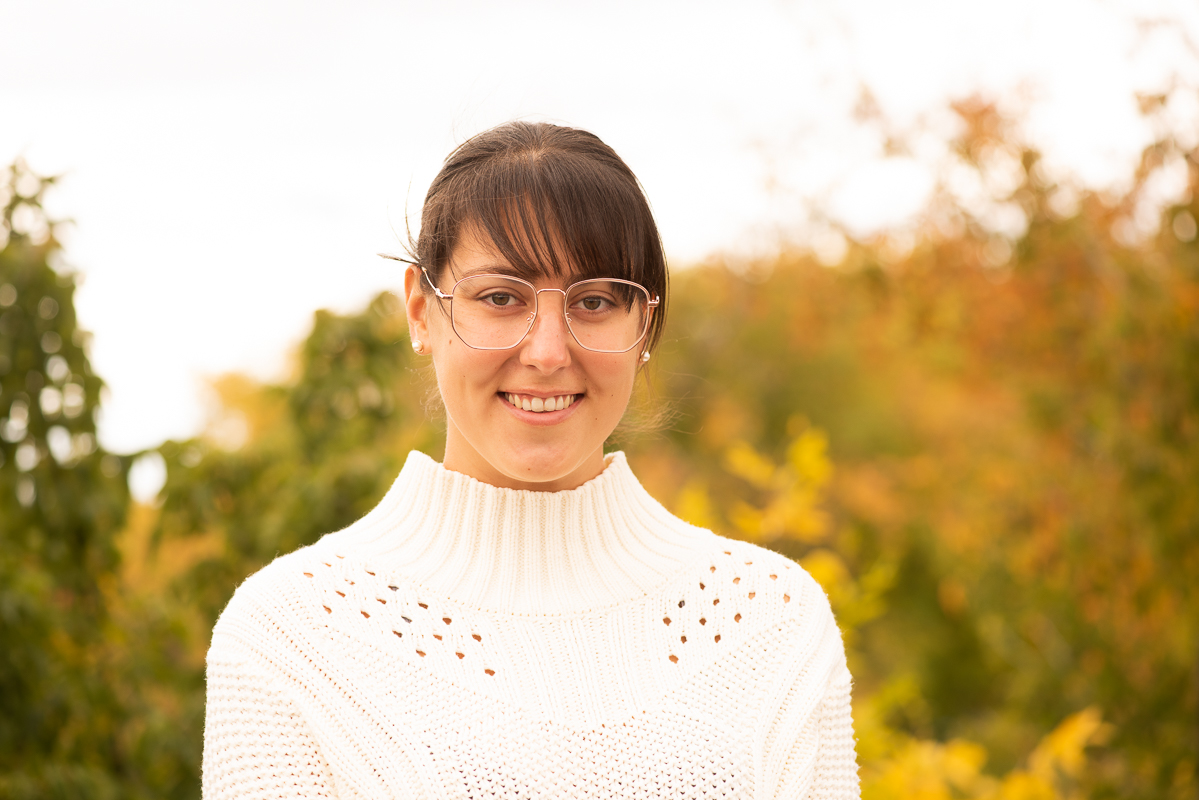
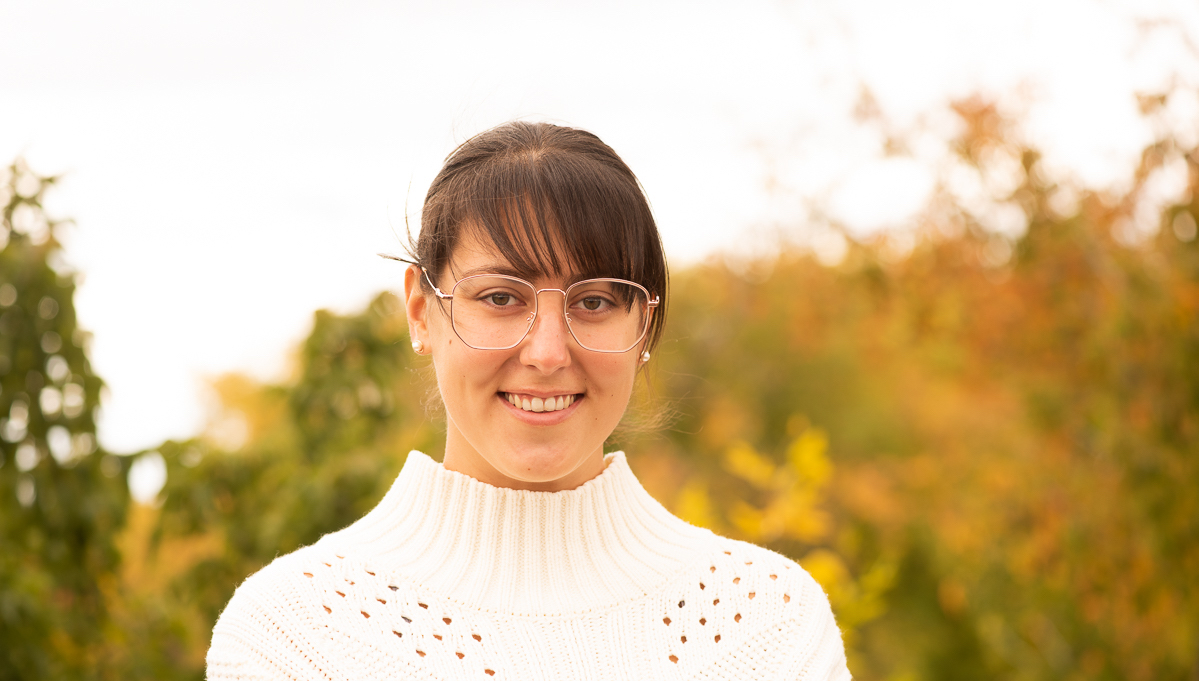
started CSS skeleton, updated html anchors connecting headers to sections, cropped hero image

diff --git a/assets/css/style.css b/assets/css/style.css
@@ -1,3 +1,9 @@
+:root {
+  --primary-color: #F1D9BF;
+  --secondary-color: #FCF8F3;
+  --tertiary-color: #2E211B;
+}
+
 * {
     box-sizing: border-box;
     margin: 0;
@@ -6,13 +12,14 @@
 
 /* START - BODY STYLINNG */
 body {
-
+    background-color: var(--secondary-color);
+    font-family:'Trebuchet MS', 'Lucida Sans Unicode', 'Lucida Grande', 'Lucida Sans', Arial, sans-serif
 }
 
 /* START - HEADER STYLING */
 header {
     padding: 15px 35px;
-    background-color: var(--tertiary-color);
+    background-color: var(--primary-color);
     display: flex;
     justify-content: space-between;
     flex-wrap: wrap;
@@ -22,25 +29,67 @@ header {
     background-image: url("../images/Lia_hero.jpg");
     background-size: cover;
     background-attachment: fixed;
-    background-position: 80%;
+    background-position: 100%;
     z-index: 9999;
+}
+
+header h1 {
+    font-weight: bold;
+    margin: 0;
+    font-size: 40px;
+    color: var(--tertiary-color);
+    text-shadow: 0 0 5px rgba(0, 0, 0, 0.5);
+}
+
+header h1 a {
+    color: var(--tertiary-color);
+}
+
+header nav {
+    margin: 7px 0;
+    color: var(--tertiary-color);
+    text-decoration: none;
+}
+  
+header nav ul {
+    display: flex;
+    flex-wrap: wrap;
+    justify-content: space-between;
+    align-items: center;
+    list-style: none;
+}
+  
+header nav ul li a {
+    padding: 10px 15px;
+    font-weight: lighter;
+    font-size: 1.55vw;
+}
+  
+header nav ul li a:hover {
+    background: var(--primary-color);
+    color: var(--tertiary-color);
+    border-radius: 10px 10px 0 0;
+    text-shadow: none;
 }
 
 /* START HERO IMAGE STYLING */
 .hero {
-    background-image: url("../images/digital-marketing-meeting.jpg");
+    background-image: url("../images/Lia_hero.jpg");
     background-size: cover;
     display: flex;
+    height: 600px;
+    width: 100%;
     justify-content: center;
     align-items: flex-start;
     background-attachment: fixed;
     background-position: 100%;
 }
 
-.hero h2 {
+.hero-subtitle {
     flex-wrap: wrap;
+    align-self: flex-end;
     justify-content: flex-end;
-    background-color: #fefae0;
+    background-color: var(--primary-color);
     padding: 10px;
     border-radius: 5px 5px 0 0;
 }

diff --git a/index.html b/index.html
@@ -12,7 +12,9 @@
 <body>
     <!-- START - HEADER & NAVIGATION -->
     <header>
-        <h1 title="A professional portfolio"> Lia Mattacchione</h1>
+        <h1 title="A professional portfolio">
+            <a>Lia Mattacchione</a>
+        </h1>
 
         <nav>
             <ul>
@@ -38,12 +40,14 @@
 
     <!-- START - HERO IMAGE -->
     <section class="hero">
-        <h2>Merging my passion of healthcare with coding.</h2>
+        <div class="hero-subtitle">
+            <h2>Merging my passion of healthcare with coding.</h2>
+        </div>
     </section>
     <!-- END - HERO IMAGE -->
 
     <!-- START - ABOUT ME -->
-    <section>
+    <section id="about-me">
         <h2>About Me</h2>
         <p>
             Lia has always been physically active, participating in a variety of individual 
@@ -69,7 +73,7 @@
     <!-- END - ABOUT ME -->
 
     <!-- START - WORK -->
-    <section>
+    <section id="work">
         <h2>Work</h2>
         <div class="flex-container">
 
@@ -100,7 +104,7 @@
     <!-- START - FOOTER -->
     <footer>
         <!-- START - CONTACT ME -->
-        <div class="contact-form">
+        <div id="contact-me" class="contact-form">
             <h2>Contact Me</h2>
 
             <form>
